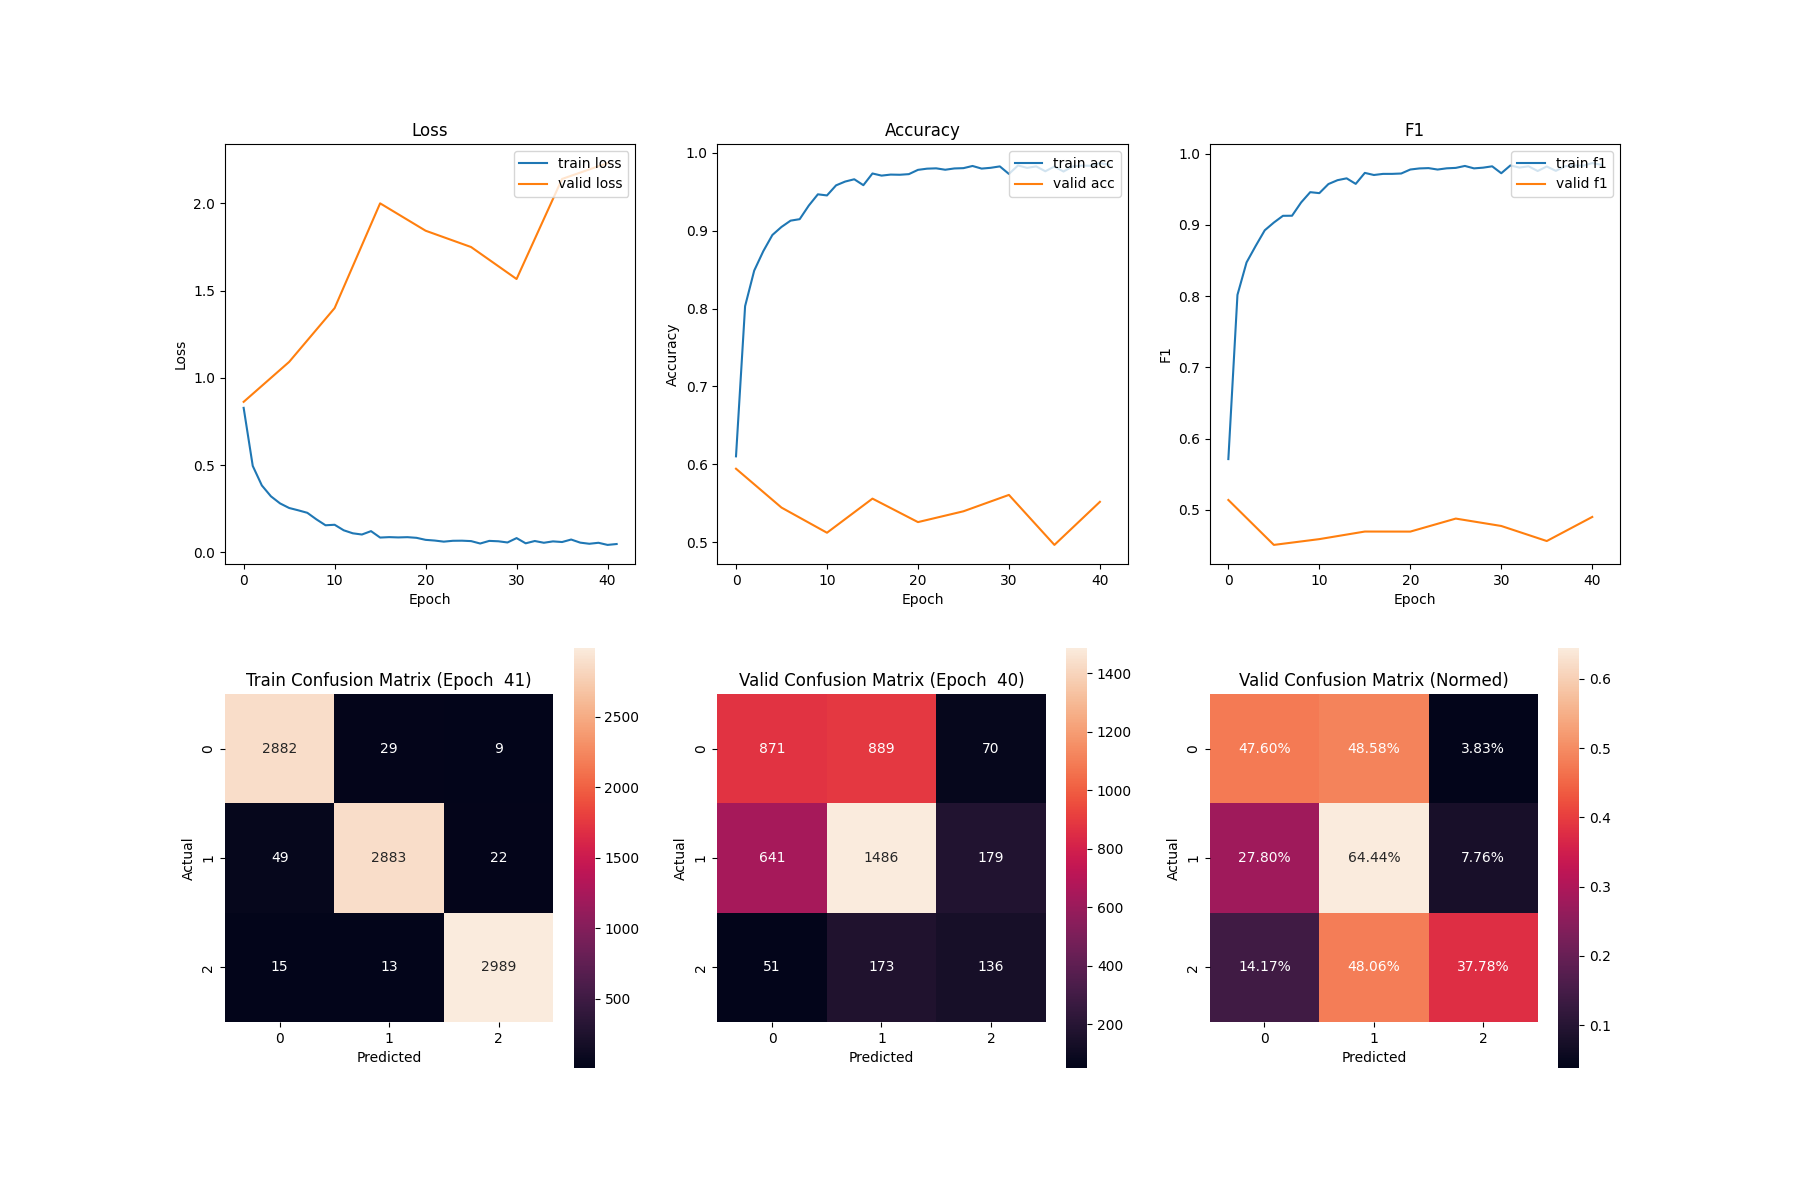
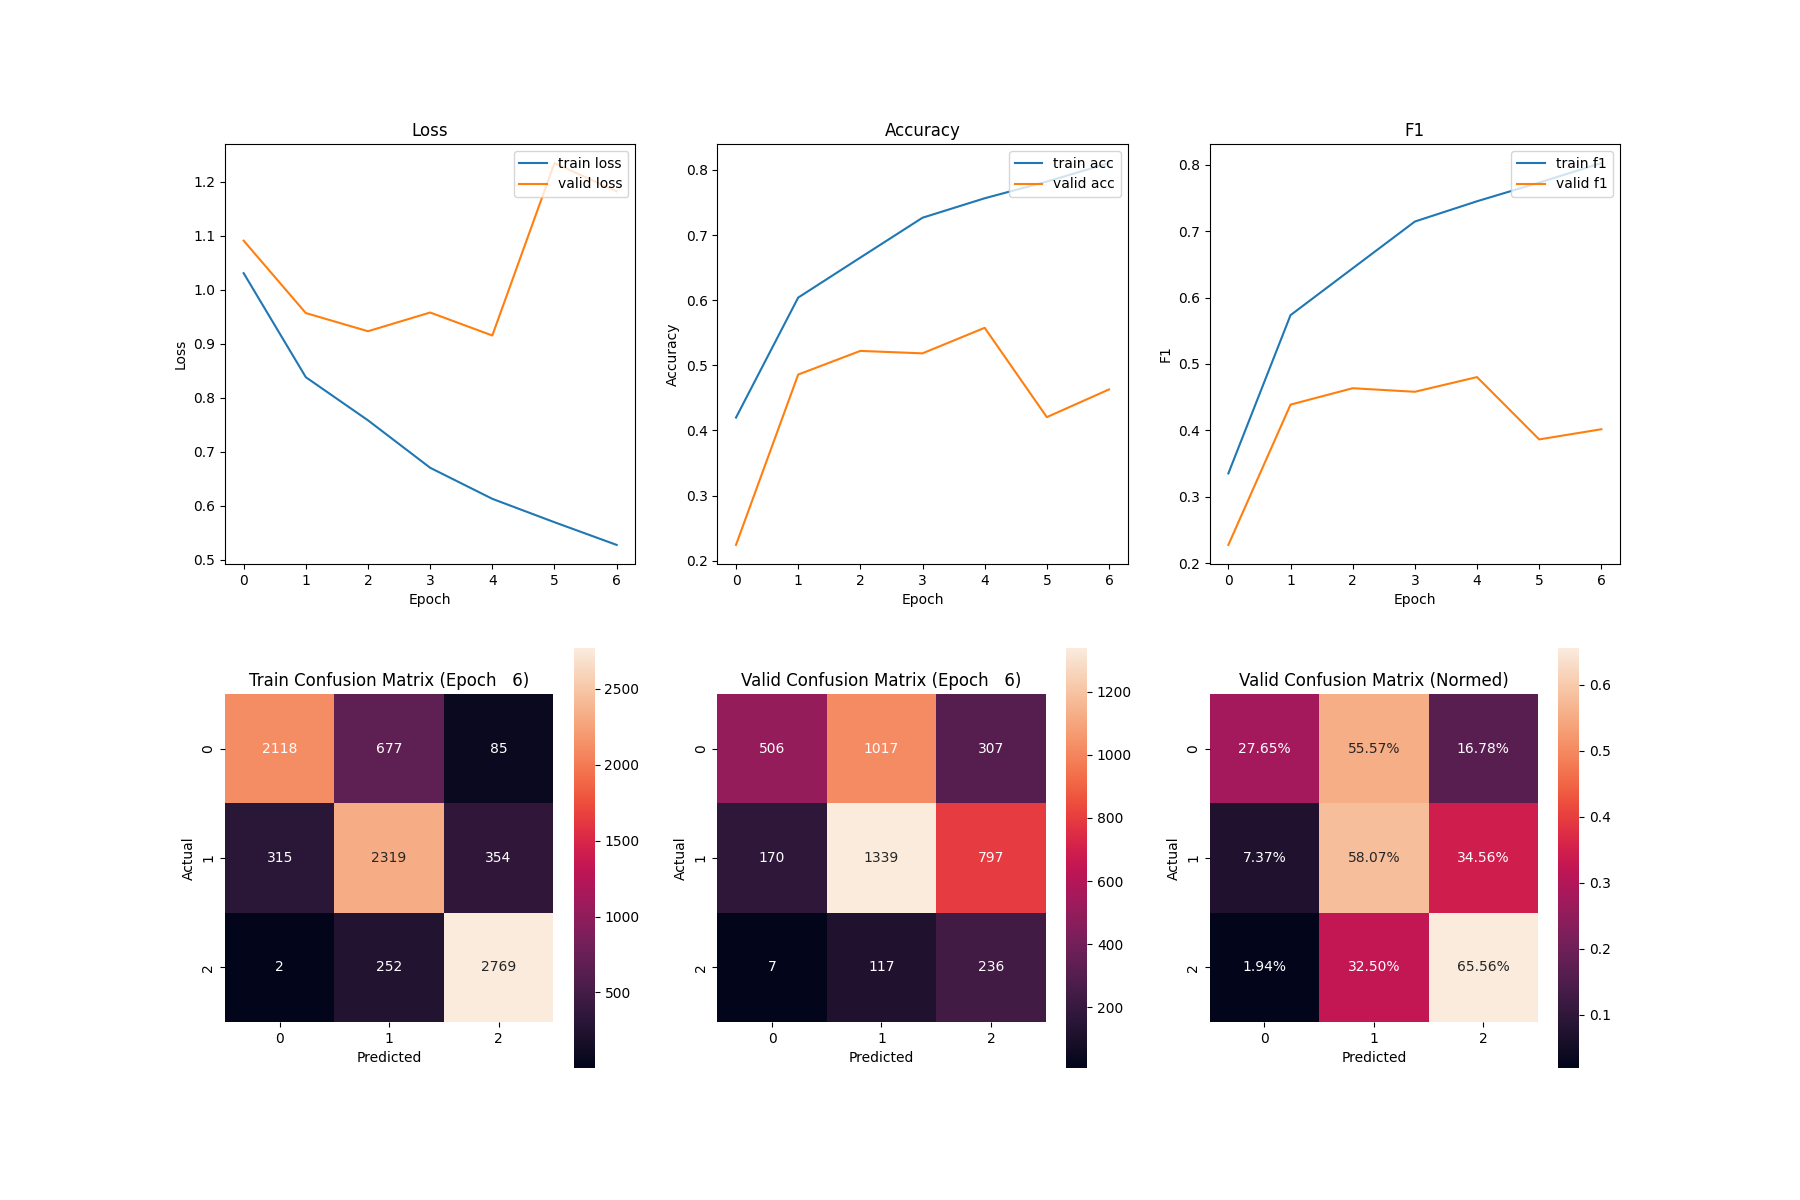
Update batch size and optimizer parameters

diff --git a/main.py b/main.py
@@ -12,12 +12,13 @@ from sklearn.metrics import (
     accuracy_score,
     confusion_matrix
 )
+from src.data.utils import read_tsv
 
 from src.features.dataset import DepressionDataset
 from src.models.GAT import GAT
 
 
-batch_size = 128
+batch_size = 32
 reset_dataset = False
 device = torch.device('cuda' if torch.cuda.is_available() else 'cpu')
 
@@ -52,8 +53,10 @@ if __name__ == '__main__':
         }
     ).to(device)
 
-    optimizer = torch.optim.Adam(model.parameters(), lr=0.01)
-    criterion = torch.nn.CrossEntropyLoss()
+    optimizer = torch.optim.Adam(model.parameters(), lr=0.001, weight_decay=.01)
+    criterion = torch.nn.CrossEntropyLoss(
+        # weight=torch.tensor([1, 1, 1.5]).to(device)
+    )
 
     hist = {
         'train_loss': [],
@@ -69,14 +72,14 @@ if __name__ == '__main__':
 
     # Start training
     print("Start training...")
-    for epoch in range(0, 100):
+    for epoch in range(0, 50):
         step_loss = 0
         step_acc = 0
         step_f1 = 0
         step_cm = None
         
         model.train()
-        for batch in tqdm(train_loader, desc=f'Epoch {epoch:3d} | Train'):
+        for batch in tqdm(train_loader, desc=f'Epoch {epoch:3d} ┬ Train'):
             batch = batch.to(device)
             optimizer.zero_grad()
 
@@ -92,15 +95,13 @@ if __name__ == '__main__':
             pred = out.argmax(dim=1)
             acc = accuracy_score(batch.y.cpu(), pred.cpu())
             f1 = f1_score(batch.y.cpu(), pred.cpu(), average='macro')
+            # roc_auc = roc_auc_score(batch.y.cpu(), pred.cpu(), average='weighted')
 
             step_loss += loss.item()
             step_acc += acc
             step_f1 += f1
-            batch_cm = confusion_matrix(batch.y.cpu(), pred.cpu())
-            if step_cm is None:
-                step_cm = batch_cm
-            else:
-                step_cm += batch_cm
+            batch_cm = confusion_matrix(batch.y.cpu(), pred.cpu(), labels=[0, 1, 2])
+            step_cm = batch_cm if step_cm is None else step_cm + batch_cm
 
         step_loss /= len(train_loader)
         step_acc /= len(train_loader)
@@ -112,7 +113,7 @@ if __name__ == '__main__':
         hist['train_cm'].append(step_cm)
 
 
-        if epoch % 5 == 0:
+        if epoch % 1 == 0:
             step_loss = 0
             step_acc = 0
             step_f1 = 0
@@ -120,7 +121,7 @@ if __name__ == '__main__':
 
             model.eval()
             with torch.no_grad():
-                for batch in tqdm(valid_loader, desc=f'Epoch {epoch:3d} | Valid'):
+                for batch in tqdm(valid_loader, desc='          └ Valid'):
                     batch = batch.to(device)
                     out = model(
                         batch.x,
@@ -136,11 +137,8 @@ if __name__ == '__main__':
                     step_loss += loss.item()
                     step_acc += acc
                     step_f1 += f1
-                    batch_cm = confusion_matrix(batch.y.cpu(), pred.cpu())
-                    if step_cm is None:
-                        step_cm = batch_cm
-                    else:
-                        step_cm += batch_cm
+                    batch_cm = confusion_matrix(batch.y.cpu(), pred.cpu(), labels=[0, 1, 2])
+                    step_cm = batch_cm if step_cm is None else step_cm + batch_cm
 
             step_loss /= len(valid_loader)
             step_acc /= len(valid_loader)
@@ -186,6 +184,13 @@ if __name__ == '__main__':
         axs[1][1].set_ylabel('Actual')
         axs[1][1].set_title(f'Valid Confusion Matrix (Epoch {hist["valid_x"][-1]:3d})')
         axs[1][1].set_aspect('equal')
+
+        sns.heatmap(hist['valid_cm'][-1] / hist['valid_cm'][-1].sum(axis=1)[:, np.newaxis], 
+                    annot=True, fmt='.2%', ax=axs[1][2])
+        axs[1][2].set_xlabel('Predicted')
+        axs[1][2].set_ylabel('Actual')
+        axs[1][2].set_title(f'Valid Confusion Matrix (Normed)')
+        axs[1][2].set_aspect('equal')
 
         fig.savefig('results.png')
         plt.close()

diff --git a/src/models/MLGCN.py b/src/models/MLGCN.py
@@ -1,26 +1,27 @@
 import torch
 import torch.nn.functional as F
-from torch_geometric.nn import GATConv, Linear, TopKPooling
+from torch_geometric.nn import Linear, DenseGATConv
 from torch_geometric.nn import (
     global_mean_pool as gap, 
     global_max_pool as gmp
 )
+from torch_geometric.utils import to_dense_batch, to_dense_adj
 
-class GAT(torch.nn.Module):
+class MLGCN(torch.nn.Module):
     def __init__(self, feature_size, model_params):
         super().__init__()
         self.n_layers = model_params["model_layers"]
         dense_neurons = model_params["model_dense_neurons"]
         embedding_size = model_params["model_embedding_size"]
         num_classes = model_params["model_num_classes"]
-        self.dropout = model_params["model_dropout"]
+        # dropout = model_params["model_dropout"]
         
         self.atten_layers = torch.nn.ModuleList()
         self.linear_layers = torch.nn.ModuleList()
-
+        # self.dropout_layer = torch.nn.Dropout(dropout)
         for i in range(self.n_layers):
             input_size = feature_size if i == 0 else embedding_size
-            self.atten_layers.append(GATConv(input_size, embedding_size, heads=4))
+            self.atten_layers.append(DenseGATConv(input_size, embedding_size, heads=4))
             self.linear_layers.append(Linear(embedding_size * 4, embedding_size))
 
         self.line_1 = Linear(embedding_size * 2, dense_neurons)
@@ -30,8 +31,11 @@ class GAT(torch.nn.Module):
     def forward(self, x, edge_index, batch_index):
         global_representation = []
 
+        x, _ = to_dense_batch(x, batch_index)
+        adj, _ = to_dense_adj(edge_index, batch_index)
+
         for i in range(self.n_layers):
-            x = self.atten_layers[i](x, edge_index)
+            x = self.atten_layers[i](x, adj)
             x = F.relu(x)
             x = self.linear_layers[i](x)
             x = F.relu(x)
@@ -44,9 +48,9 @@ class GAT(torch.nn.Module):
         x = sum(global_representation)
 
         x = F.relu(self.line_1(x))
-        x = F.dropout(x, p=self.dropout, training=self.training)
+        # x = self.dropout_layer(x)
         x = F.relu(self.line_2(x))
-        x = F.dropout(x, p=self.dropout, training=self.training)
+        # x = self.dropout_layer(x)
         x = self.line_3(x)
         
         return x

diff --git a/src/data/text_preprocessing.py b/src/data/text_preprocessing.py
@@ -142,8 +142,8 @@ def remove_contractions(text):
         "cannot": "can not",
         "youre": "you are",
         "loveu": "love you",
-        "im": "i am",
-        "ill": "i will",
+        " im": "i am",
+        " ill": "i will",
         "cuz": "because",
         "wanna": "want to",
         "gonna": "going to",
